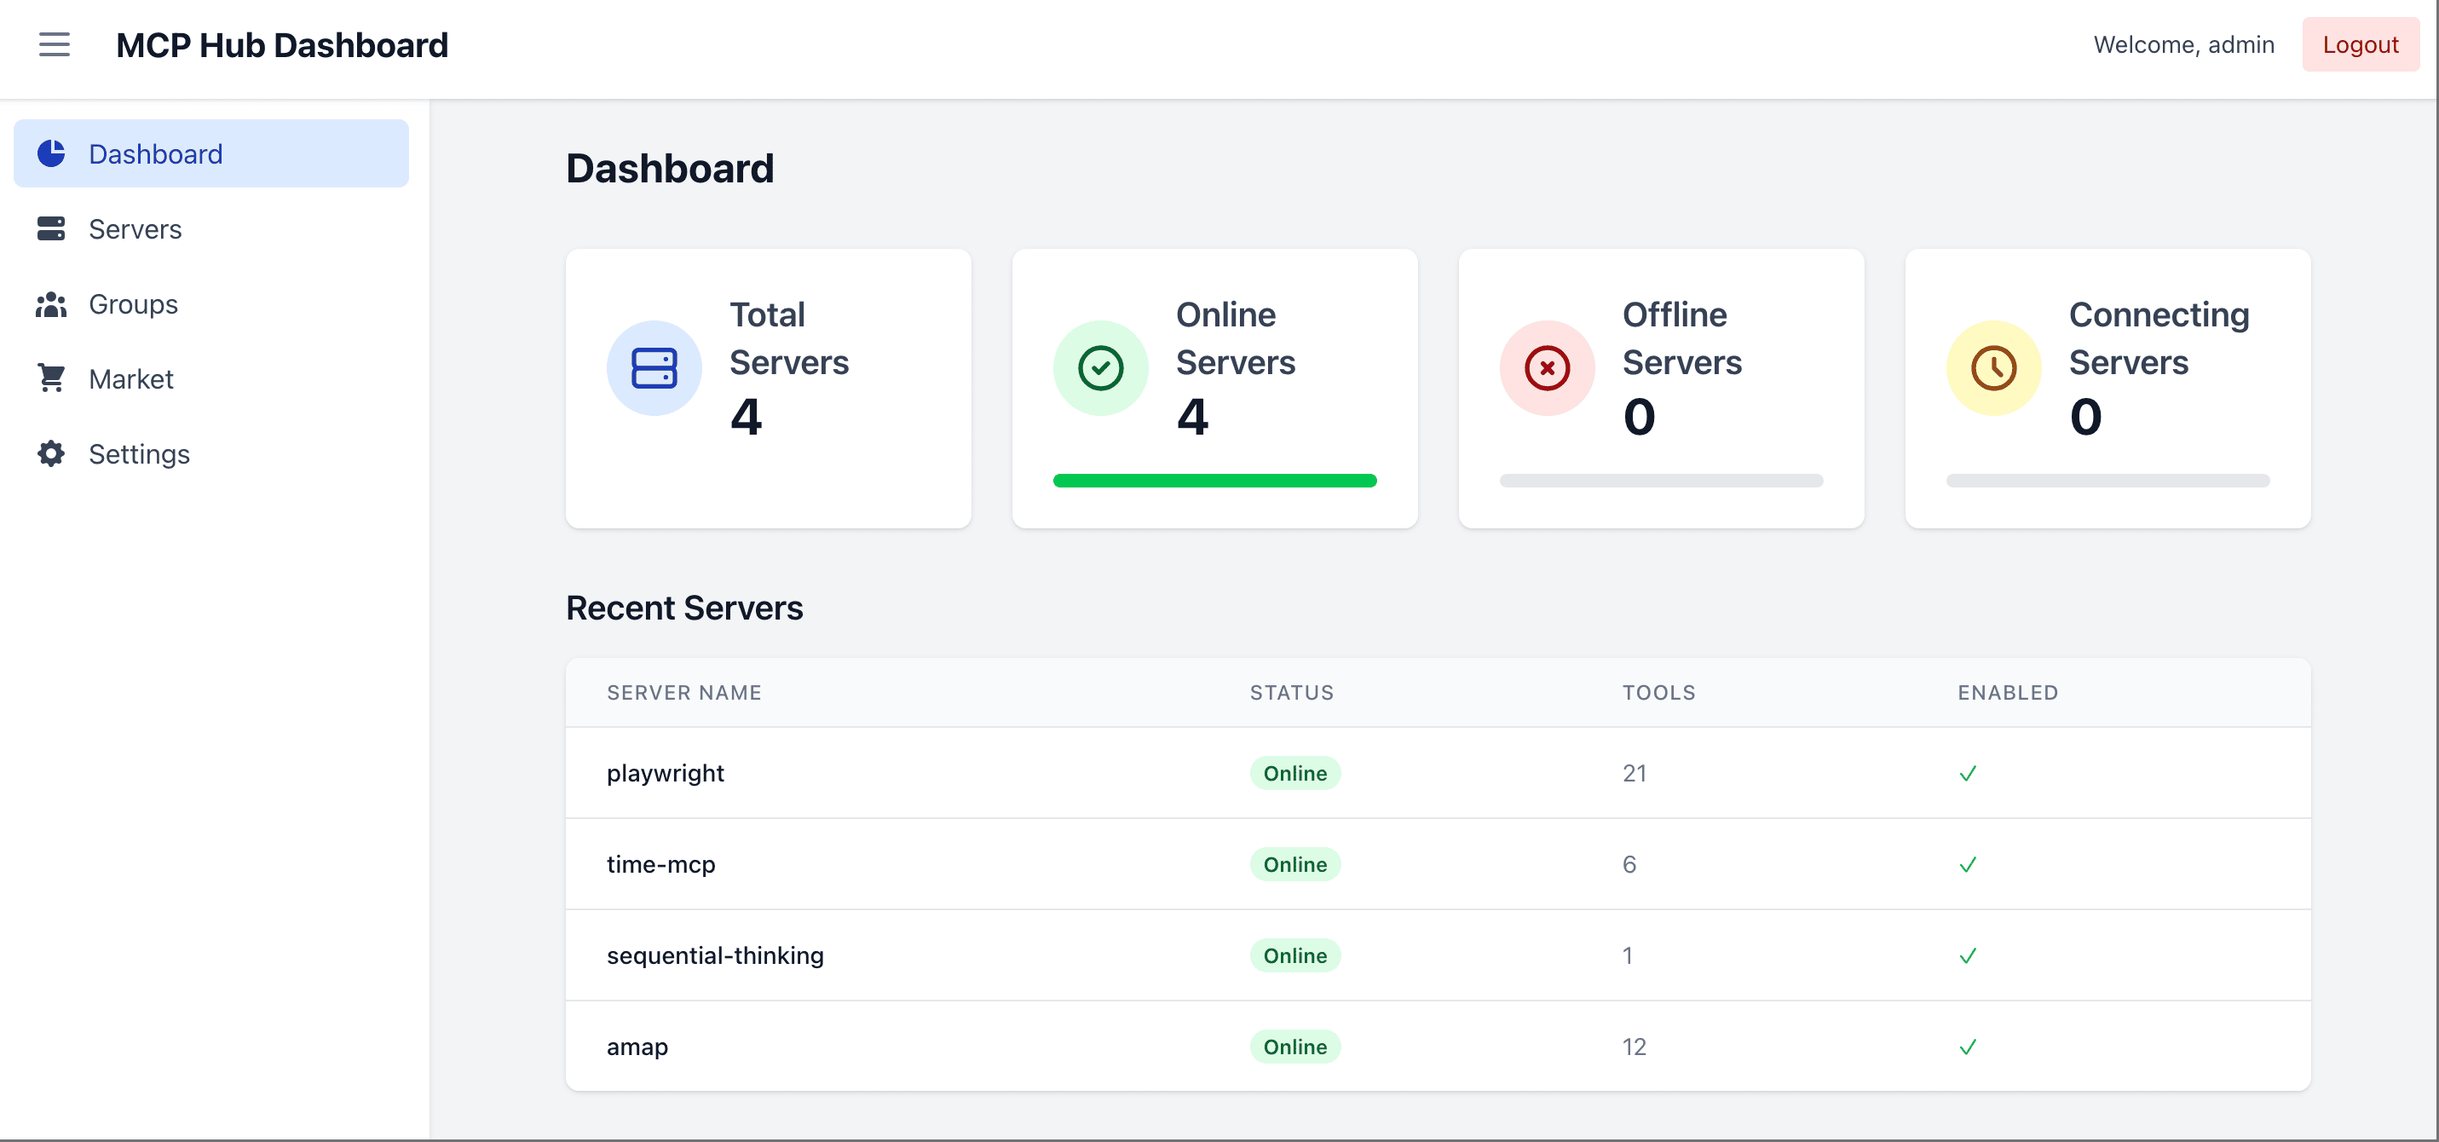
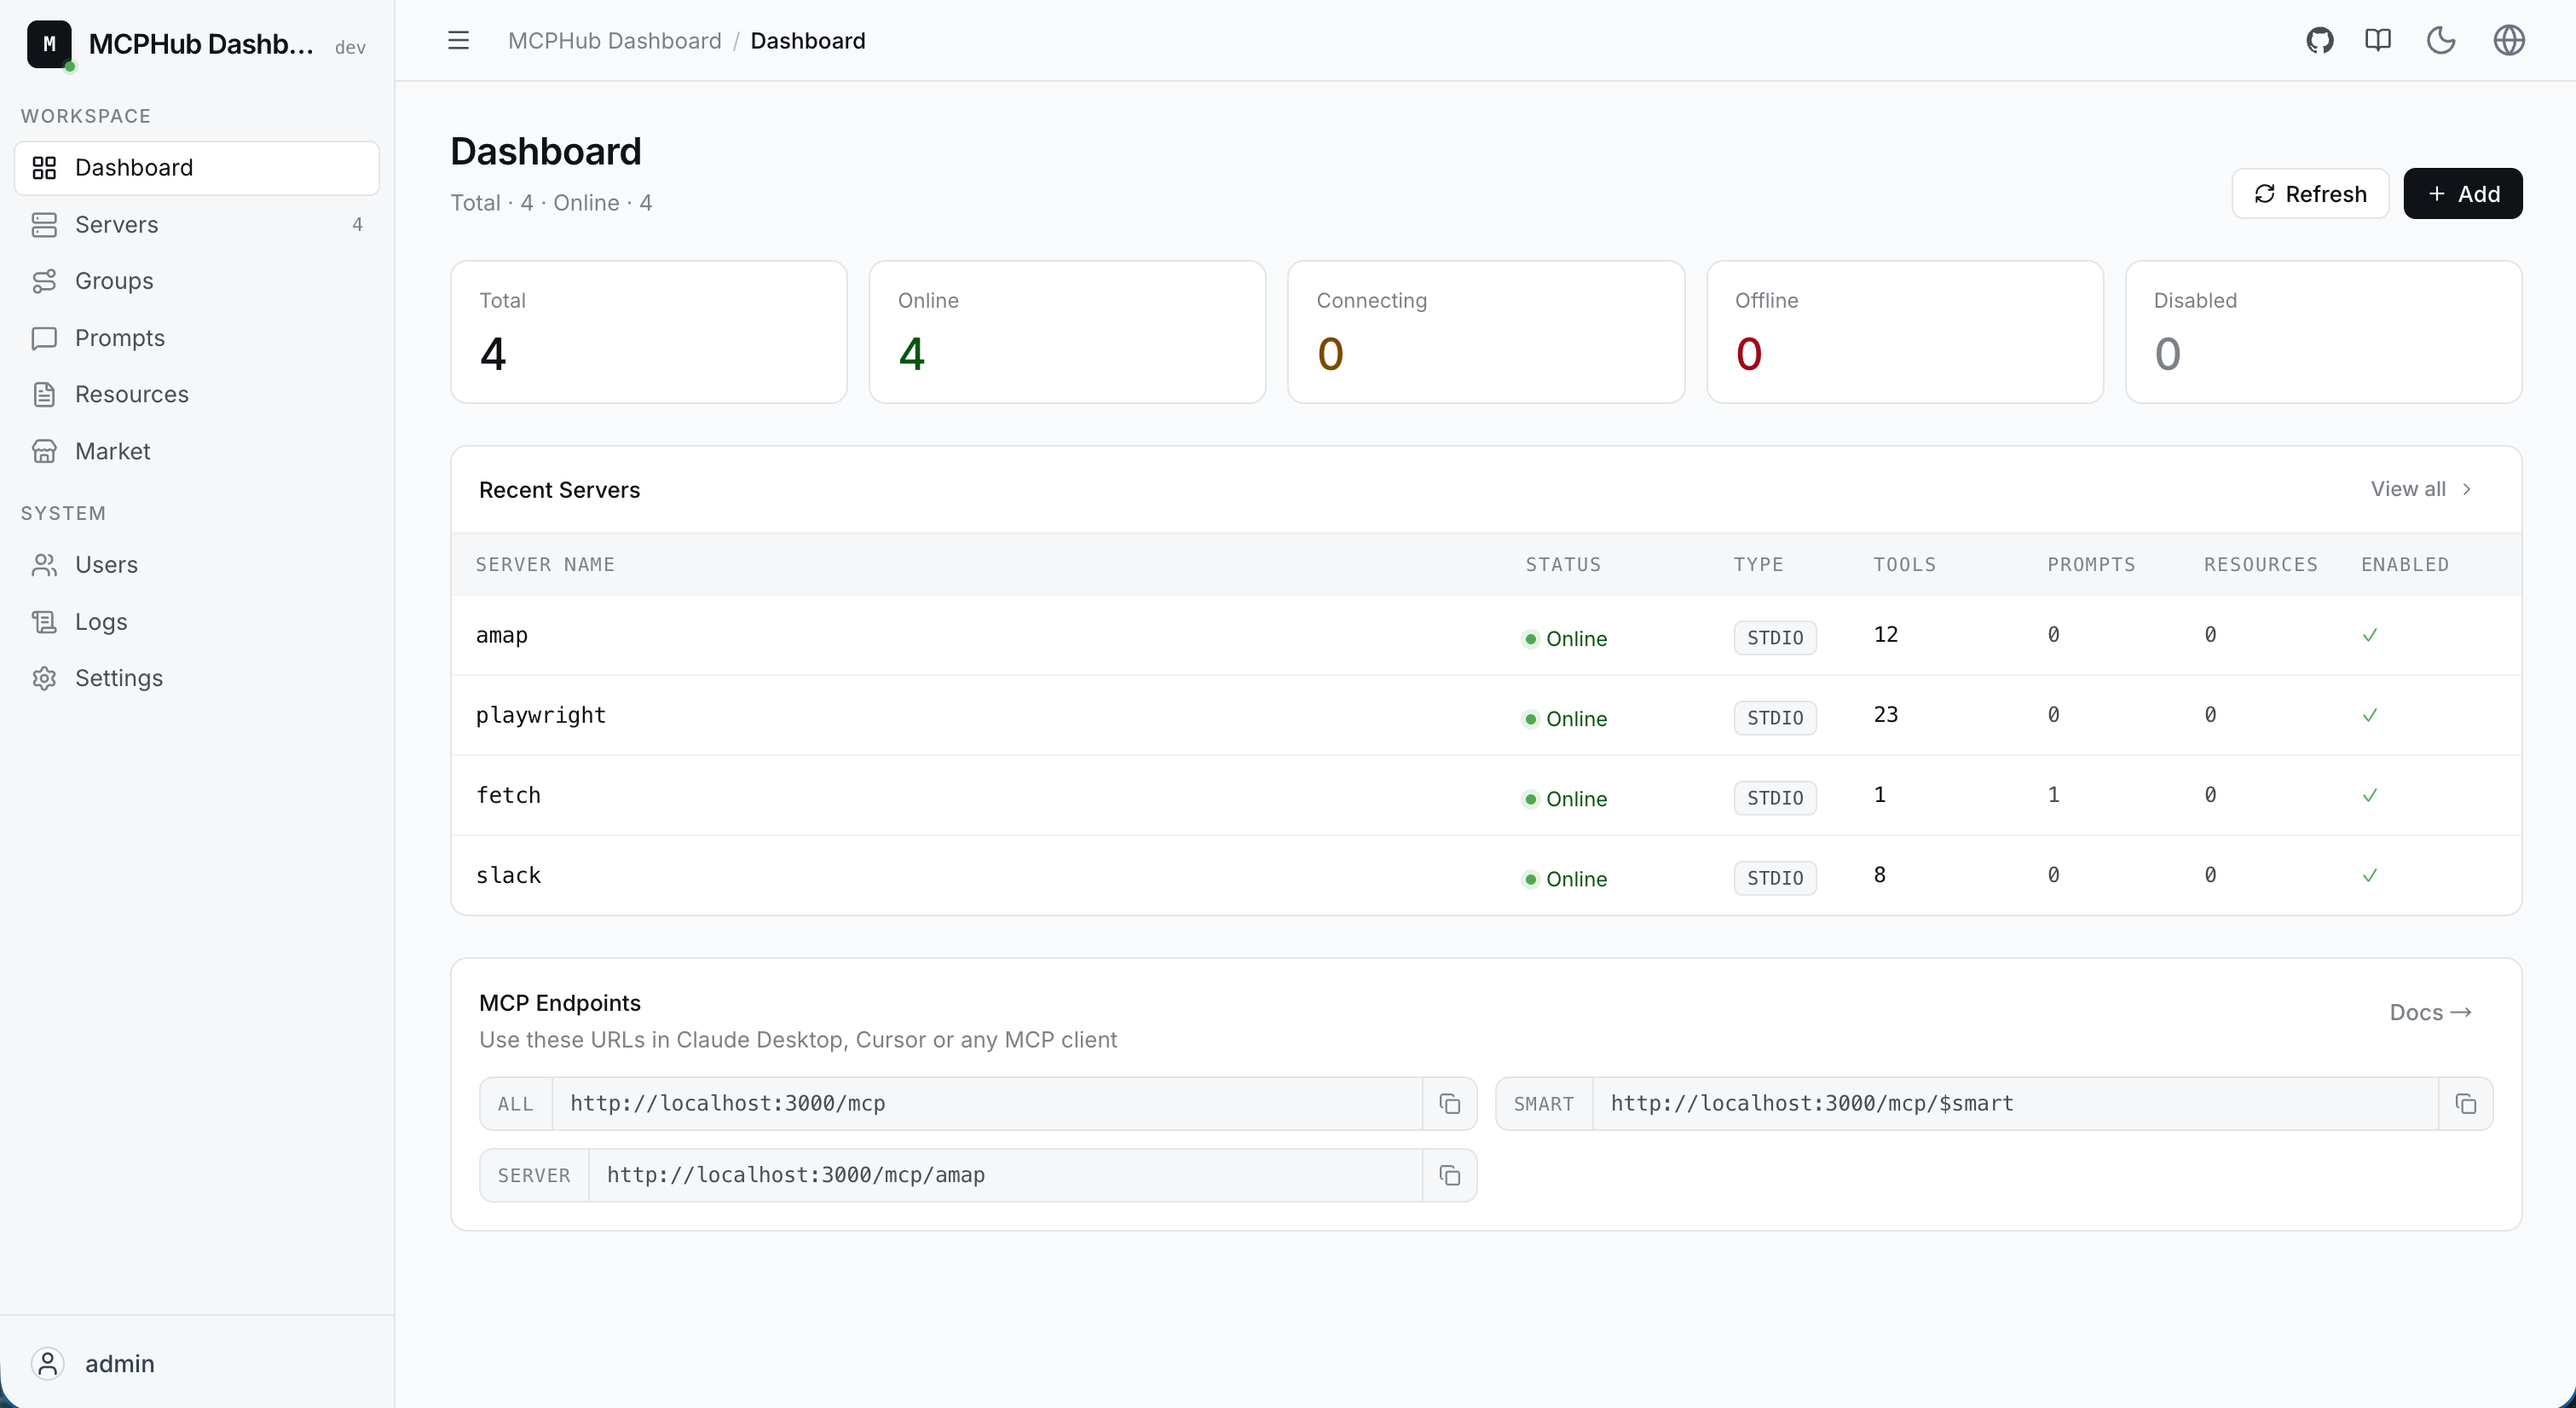
chore: remove redundant code blocks to improve maintainability

diff --git a/frontend/src/pages/Dashboard.tsx b/frontend/src/pages/Dashboard.tsx
@@ -190,8 +190,8 @@ const DashboardPage: React.FC = () => {
           >
             <div>{t('server.name')}</div>
             <div>{t('server.status')}</div>
-            <div>{t('server.tools')}</div>
             <div>{t('common.type') || 'Transport'}</div>
+            <div>{t('server.tools')}</div>
             <div>{t('server.prompts')}</div>
             <div>{t('nav.resources')}</div>
             <div>{t('server.enabled')}</div>
@@ -215,15 +215,15 @@ const DashboardPage: React.FC = () => {
               <div>
                 <ServerStatusDot status={s.status} enabled={s.enabled} />
               </div>
-              <div className="hub-num hub-mono" style={{ fontSize: 12.5 }}>
-                {s.tools?.length || 0}
-              </div>
               <div>
                 {s.config?.type ? (
                   <span className="hub-tag">{transportLabel(t, s.config.type)}</span>
                 ) : (
                   <span style={{ color: 'var(--hub-ink-3)', fontSize: 12 }}>—</span>
                 )}
+              </div>
+              <div className="hub-num hub-mono" style={{ fontSize: 12.5 }}>
+                {s.tools?.length || 0}
               </div>
               <div className="hub-num hub-mono" style={{ fontSize: 12.5, color: 'var(--hub-ink-2)' }}>
                 {s.prompts?.length || 0}
@@ -263,7 +263,7 @@ const DashboardPage: React.FC = () => {
           <EndpointCopy label="ALL" url={`${baseUrl}/mcp`} />
           <EndpointCopy label="SMART" url={`${baseUrl}/mcp/$smart`} />
           {groups.slice(0, 2).map((g) => (
-            <EndpointCopy key={g.id} label="GROUP" url={`${baseUrl}/mcp/${g.id}`} />
+            <EndpointCopy key={g.id} label="GROUP" url={`${baseUrl}/mcp/${g.name}`} />
           ))}
           {/* Pad with first server endpoint if there's space */}
           {groups.length < 2 && allServers[0] && (

diff --git a/README.fr.md b/README.fr.md
@@ -4,7 +4,7 @@
 
 MCPHub facilite la gestion et la mise à l'échelle de plusieurs serveurs MCP (Model Context Protocol) en les organisant en points de terminaison HTTP streamables (SSE) flexibles, prenant en charge l'accès à tous les serveurs, à des serveurs individuels ou à des groupes de serveurs logiques.
 
-![Aperçu du tableau de bord](assets/dashboard.zh.png)
+![Aperçu du tableau de bord](assets/dashboard.fr.png)
 
 ## 🌐 Démo en direct et Documentation
 
